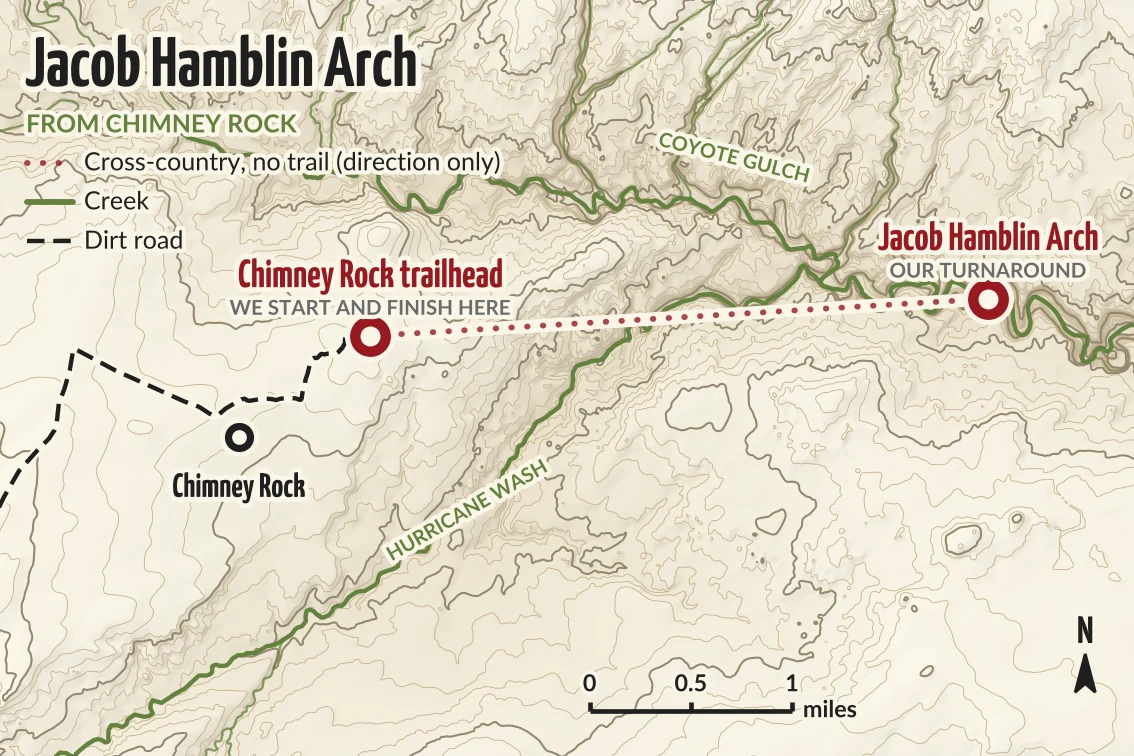
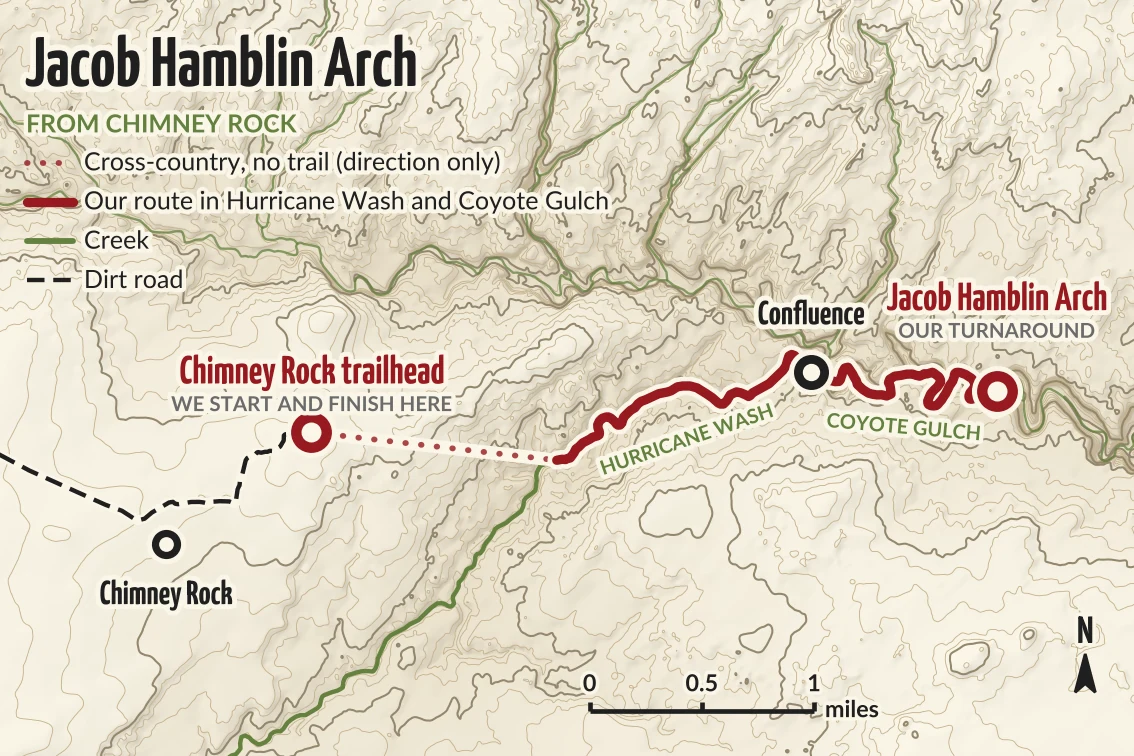
Escalante hikes preview: Golden Cathedral and Jacob Hamblin maps redrawn to Sunny's routes

diff --git a/escalante-hikes-cf5e7d/golden-cathedral/index.html b/escalante-hikes-cf5e7d/golden-cathedral/index.html
@@ -160,7 +160,7 @@
     </div>
     <figure class="map"><picture><source media="(max-width:700px)" srcset="../img/map-escalante-overview-phone.webp"><img class="zoom" src="../img/map-escalante-overview.webp" alt="Map of the country around Escalante, Utah, with our five hikes marked" loading="lazy"></picture><figcaption>Map data: USGS and OpenStreetMap contributors.</figcaption></figure>
   </div>
-  
+  <figure class="map route"><picture><source media="(max-width:700px)" srcset="../img/map-golden-cathedral-route-phone.webp"><img class="zoom" src="../img/map-golden-cathedral-route.webp" alt="Topographic map of our route from the Egypt trailhead straight across the plateau to the Escalante River and up Neon Canyon to the Golden Cathedral" loading="lazy"></picture><figcaption>Map data: USGS and OpenStreetMap contributors.</figcaption></figure>
 </section>
 
 <figure class="wide-photo"><img class="zoom" src="../img/golden-cathedral/smiling-hiker-leading-group-uphill-at-dusk.jpg" srcset="../img/golden-cathedral/smiling-hiker-leading-group-uphill-at-dusk-800.jpg 800w, ../img/golden-cathedral/smiling-hiker-leading-group-uphill-at-dusk.jpg 1600w" sizes="100vw" alt="A smiling hiker in a sun hat leads four others up a rocky slope as the sky turns orange" width="1600" height="1200" loading="lazy"></figure>
